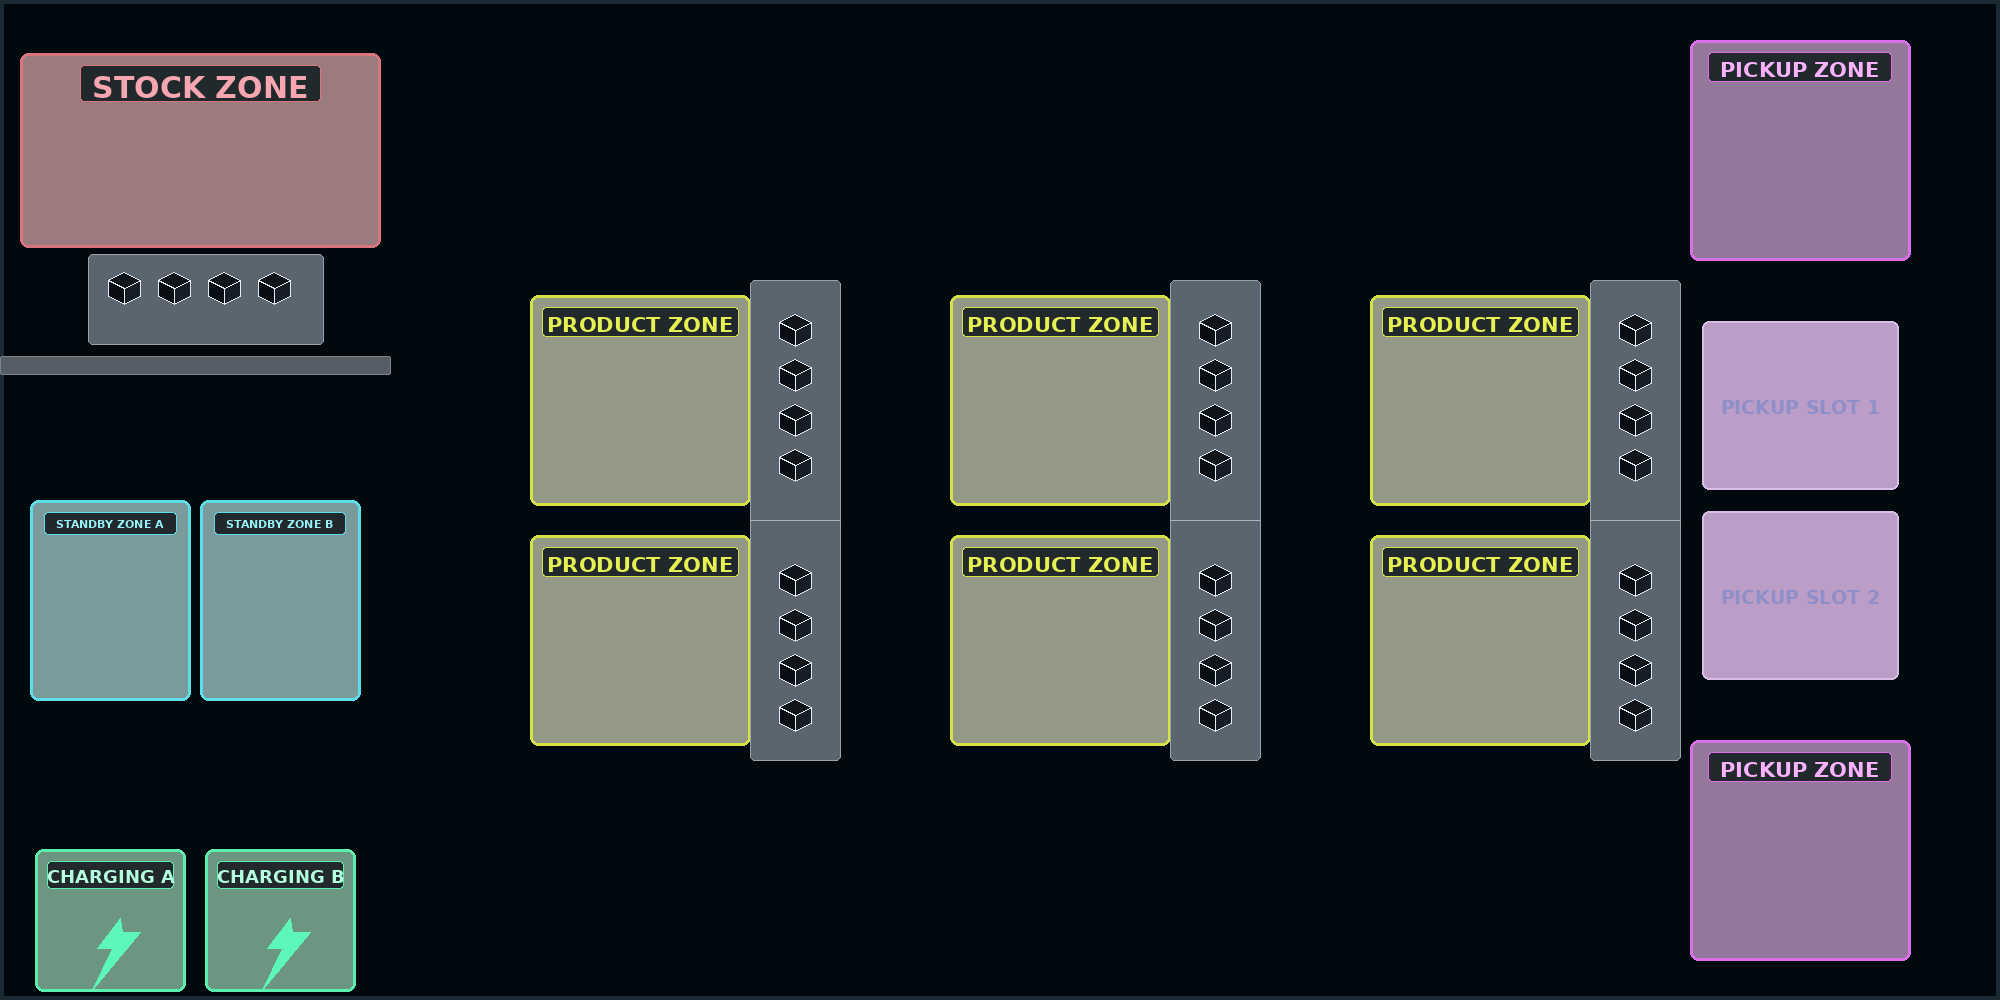
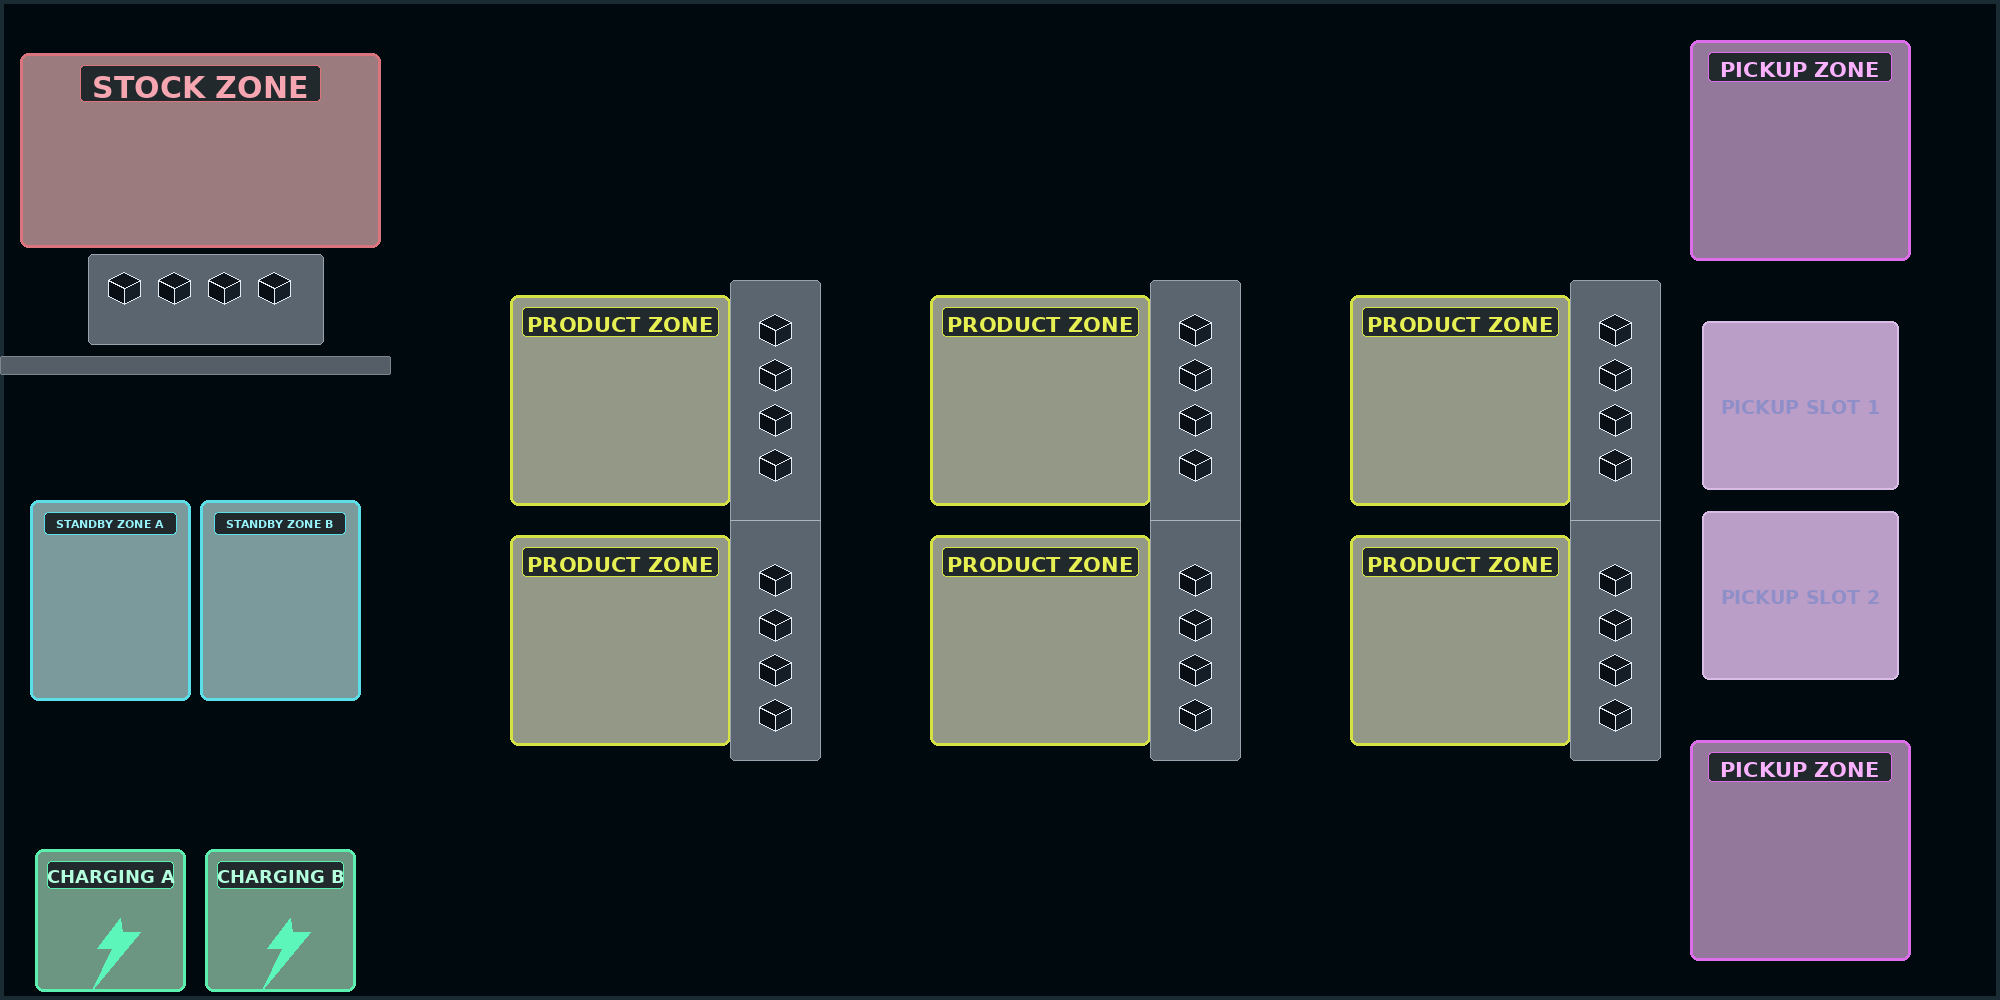
FIX(pinky_amr_2): 진열대 접근 과진입 방지
정밀 접근 중 heading 오차가 크면 전진하지 않고 회전만 하도록 조정했다.

product zone 최종 도착 tolerance를 1cm로 맞추고 waypoint 통과 범위는 15cm로 유지했다.

중앙 product shelf minimap 위치와 PRODUCT_SLOT seed x좌표를 정렬했다.

Changed region(s): [[0.465, 0.279, 0.868, 0.775], [0.248, 0.279, 0.434, 0.775]]

diff --git a/src/just_pick_it/pinky_amr_2/pinky_amr_2/move_to_goal.py b/src/just_pick_it/pinky_amr_2/pinky_amr_2/move_to_goal.py
@@ -74,7 +74,7 @@ class MoveToGoal(Node):
         super().__init__("move_to_goal")
 
         self.declare_parameter("precision_approach_distance", 0.03)
-        self.declare_parameter("waypoint_reach_distance", 0.10)
+        self.declare_parameter("waypoint_reach_distance", 0.15)
         self.declare_parameter("xy_goal_tolerance", 0.01)
         self.declare_parameter("yaw_goal_tolerance", 0.05)
         self.declare_parameter("nav_timeout_sec", 120.0)
@@ -82,6 +82,7 @@ class MoveToGoal(Node):
         self.declare_parameter("precision_max_linear_vel", 0.10)
         self.declare_parameter("precision_max_angular_vel", 0.6)
         self.declare_parameter("precision_heading_deadband_distance", 0.03)
+        self.declare_parameter("precision_heading_gate_angle", 0.35)
 
         self._prec_dist = self.get_parameter("precision_approach_distance").value
         self._waypoint_reach = self.get_parameter("waypoint_reach_distance").value
@@ -93,6 +94,9 @@ class MoveToGoal(Node):
         self._precision_max_angular = self.get_parameter("precision_max_angular_vel").value
         self._precision_heading_deadband = self.get_parameter(
             "precision_heading_deadband_distance"
+        ).value
+        self._precision_heading_gate = self.get_parameter(
+            "precision_heading_gate_angle"
         ).value
 
         self._lock = threading.Lock()
@@ -345,7 +349,6 @@ class MoveToGoal(Node):
                 return True
 
             twist = Twist()
-            twist.linear.x = min(KP * dist, self._precision_max_linear)
             if dist > self._precision_heading_deadband:
                 target_heading = math.atan2(dy, dx)
                 angle_err = normalize_angle(target_heading - cur_yaw)
@@ -353,8 +356,15 @@ class MoveToGoal(Node):
                     -self._precision_max_angular,
                     min(self._precision_max_angular, angle_err),
                 )
+                if abs(angle_err) <= self._precision_heading_gate:
+                    heading_scale = max(0.0, math.cos(angle_err))
+                    twist.linear.x = min(
+                        KP * dist * heading_scale,
+                        self._precision_max_linear,
+                    )
             else:
                 twist.angular.z = 0.0
+                twist.linear.x = min(KP * dist, self._precision_max_linear)
             self._cmd_pub.publish(twist)
             time.sleep(0.05)
 